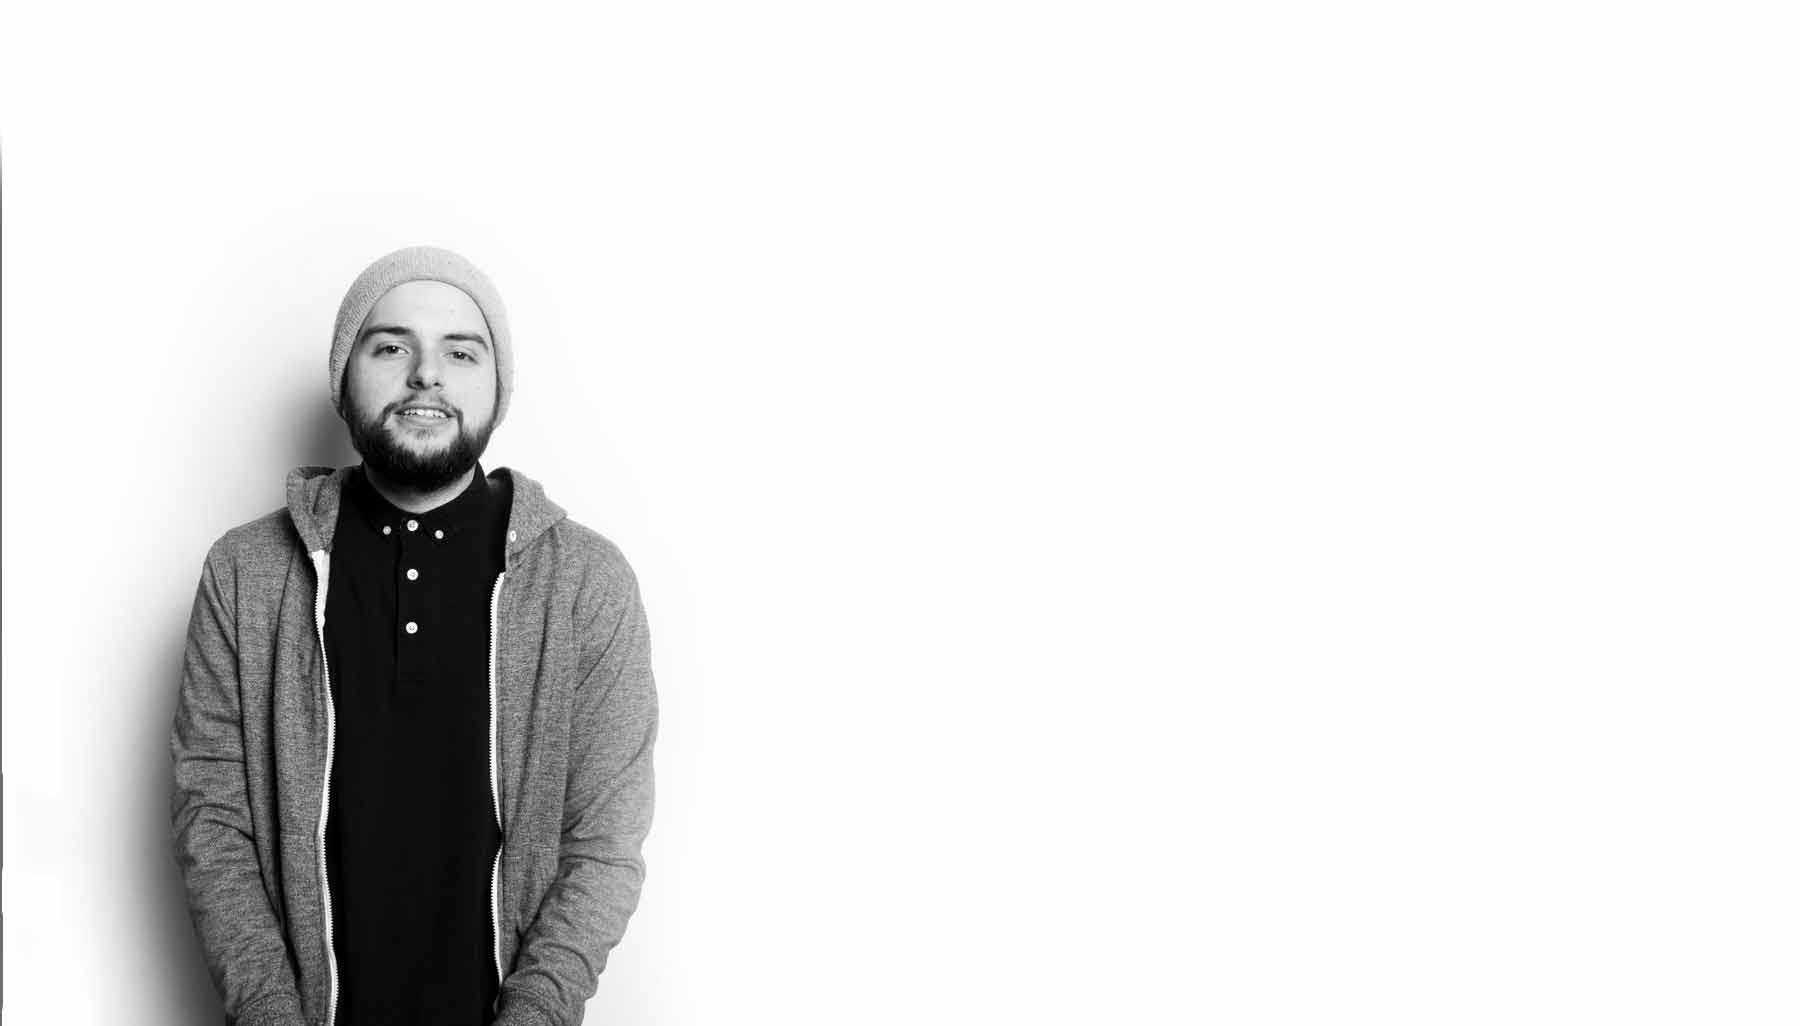
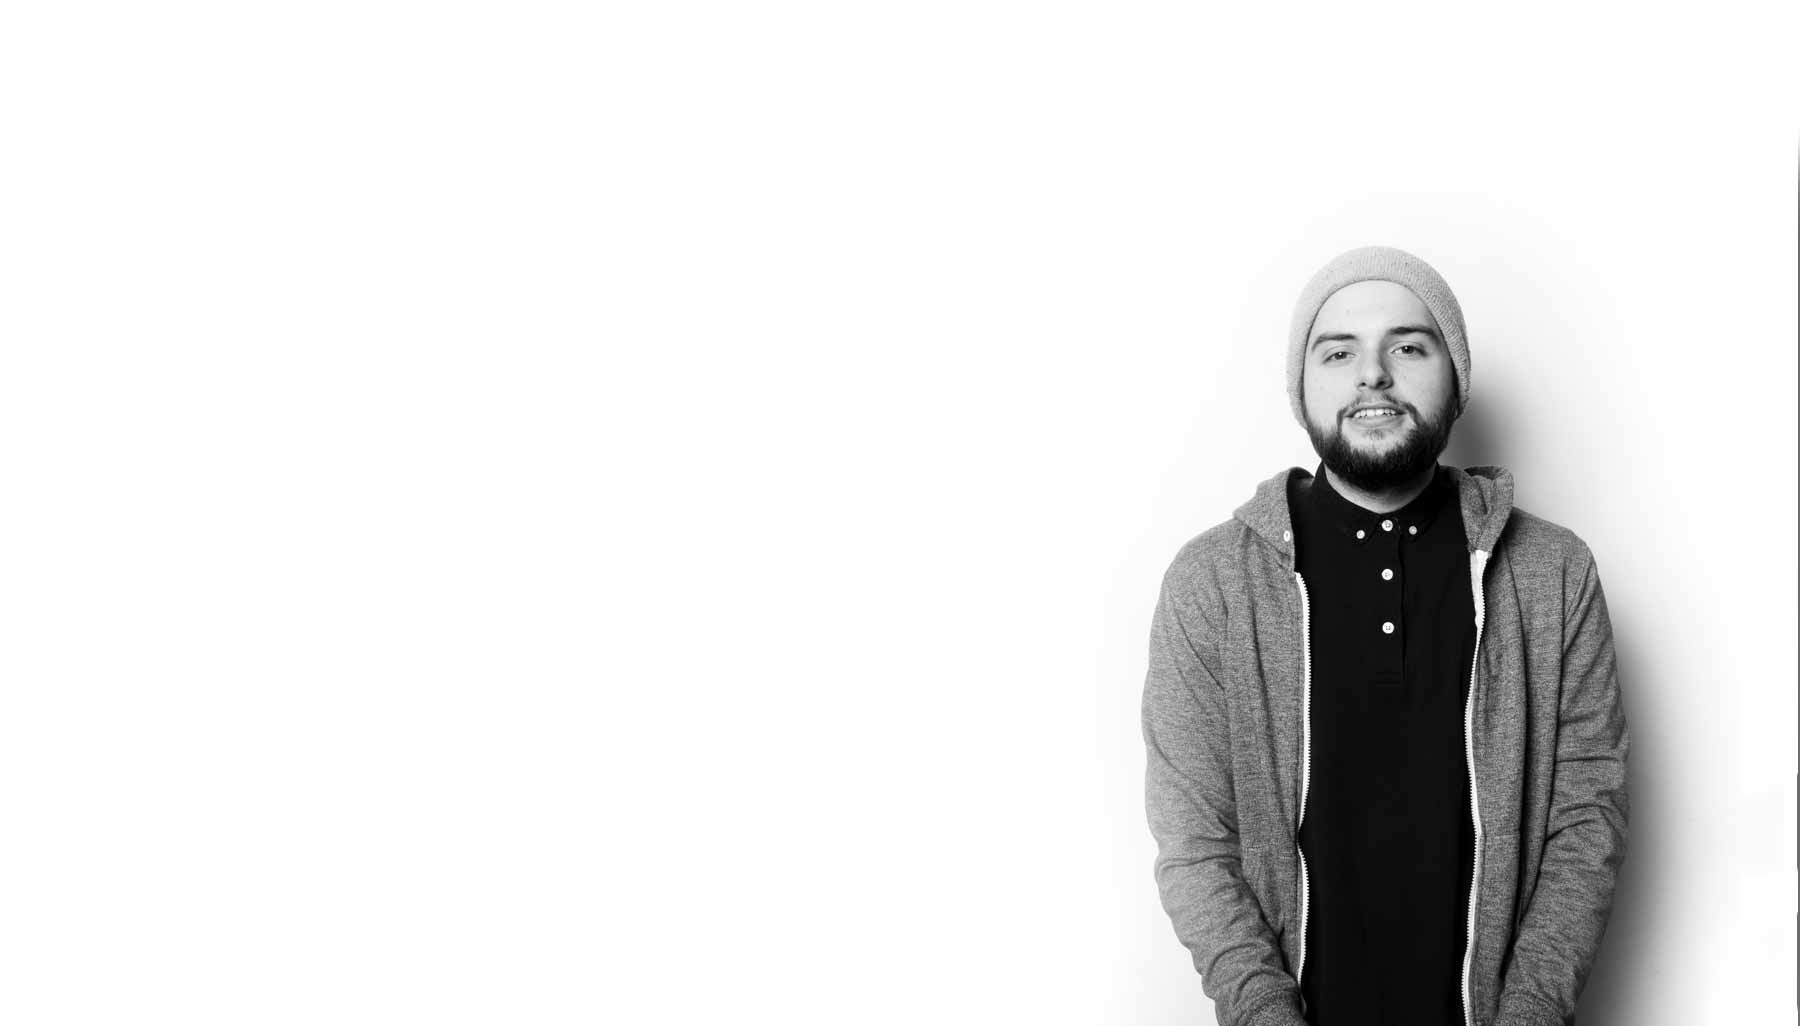
Added Content and Nav

diff --git a/css/main.css b/css/main.css
@@ -17,7 +17,7 @@ html {
 }
 }
 
-/*Header*/
+/*--------Header--------*/
 
 header {
 text-align: center;
@@ -36,10 +36,6 @@ h1 {
   font-family: 'Playfair Display', serif;
 }
 
-.portrait {
-  width:100%;
-}
-
 header {
   background-color: black;
   padding:0 0 1em 0;
@@ -49,9 +45,67 @@ h1 {
   color: white;
 }
 
+/*--------Nav--------*/
+
+nav li {
+  width:33.33%;
+  text-align:center;
+  background: #fff;
+  transition: background .25s ease-in-out;
+  -moz-transition: background .25s ease-in-out;
+  -webkit-transition: background .25s ease-in-out;
+}
+
+nav li:hover {
+  background-color: #ddd;
+}
+
+}
+
+nav ul {
+  margin: 0;
+  padding: 0;
+  list-style-type: none;
+}
+
+/*.nav-fade li {
+   background: #fff;
+   padding: 3px 8px;
+   display: inline-block;
+   transition: background .25s ease-in-out;
+   -moz-transition: background .25s ease-in-out;
+   -webkit-transition: background .25s ease-in-out;
+   }
+
+   .nav-fade li:hover {
+      background: #ddd;
+      }*/
+
+/*--------Main--------*/
+
+.portrait {
+  width:100%;
+}
+
 main p {
   padding:0 1em;
+  font-family: 'Raleway', sans-serif;
 }
+
+/*--------Content--------*/
+
+/*Photography*/
+.workphoto{
+  width:100%;
+}
+
+h3 {
+  text-align: center;
+
+}
+
+
+/*--------Footer--------*/
 
 li {
   display: inline-block;
@@ -77,15 +131,20 @@ footer {
   max-width:4em;
 }
 
+/*--------Media Queries--------*/
+
 @media only screen and (min-width: 37em) {
+
+header {
+  font-size:2em;
+}
 
 main {
   background-image: url("../img/portrait.jpg");
   background-repeat:no-repeat;
   background-size: cover;
   padding-bottom: 2em;
-  height: 60vw;
-  left:-20px;
+  height: 50vw;
 }
 
 /*VW a unit that refers to the width of my viewport*/
@@ -95,13 +154,25 @@ main {
 }
 
 main p {
+  width:40%;
+  height: auto;
+  position: relative;
+  right: 44%;
+  top:20%;
+  max-width: 480px;
+  font-size: 17px;
+  left:2em;
+}
+
+/*main p {
   width:50%;
   height: auto;
   position: relative;
   left: 44%;
   top:20%;
   max-width: 480px;
-}
+  font-size: 17px;
+}*/
 
 header {
   height: 370px;
@@ -113,6 +184,13 @@ header {
 }
 /*opacity:0.6;*/
 
+.contact {
+  position:relative;
+  bottom:0;
 }
 
-@media only screen and (min-width: 50em)
+}
+
+@media only screen and (min-width: 50em) {
+
+}

diff --git a/index.html b/index.html
@@ -17,18 +17,36 @@
 	</div>
 </header>
 
+<nav>
+	<ul>
+		<li>Home</li>
+		<li>Work</li>
+		<li>Contact</li>
+	</ul>
+</nav>
+
 <main>
 	<img class="portrait"  alt="portrait" src="img/portrait-crop.jpg">
 	<p>
 	I have always been drawn to the endless possibilities that exist within the field of visual arts. My passion of aesthetic and technique prompted me to earn my bachelor’s degree in art history theory, where I cultivated my understanding and capacities for the dramatic, the decorative, the innovative and the memorable.<br>
+	<br>
 	My passion for visual arts hasn't stemmed solely from my appreciate for fine arts, but also my desire to communicate. Since earning my degree, my interests and hobbies expanded past the study of fine arts to photography, digital art, design and eventually lead me to enrol in the graphic design program at Algonquin College. As a graphic designer,  my goal is to produce unique, creative, and adaptable solutions for clients.
 </p>
+
+<h2>Work</h2>
+
+<div>
+<h3>Photography</h3>
+<img  class="workphoto" alt="Tombstone" src="img/card-img-6.jpg">
+</div>
+
+<h3>Blog</h3>
 </main>
 
 <footer>
 	<ul class= "contact">
-		<li><img src="img/link.svg"></li>
-		<li><img src="img/tumblr.svg"></li>
-		<li><img src="img/instagram.svg"></li>
+		<li><img alt="" src="img/link.svg"></li>
+		<li><img alt="Personal Blog" src="img/tumblr.svg"></li>
+		<li><img alt="Instagram Page" src="img/instagram.svg"></li>
 	</ul>
 </footer>
